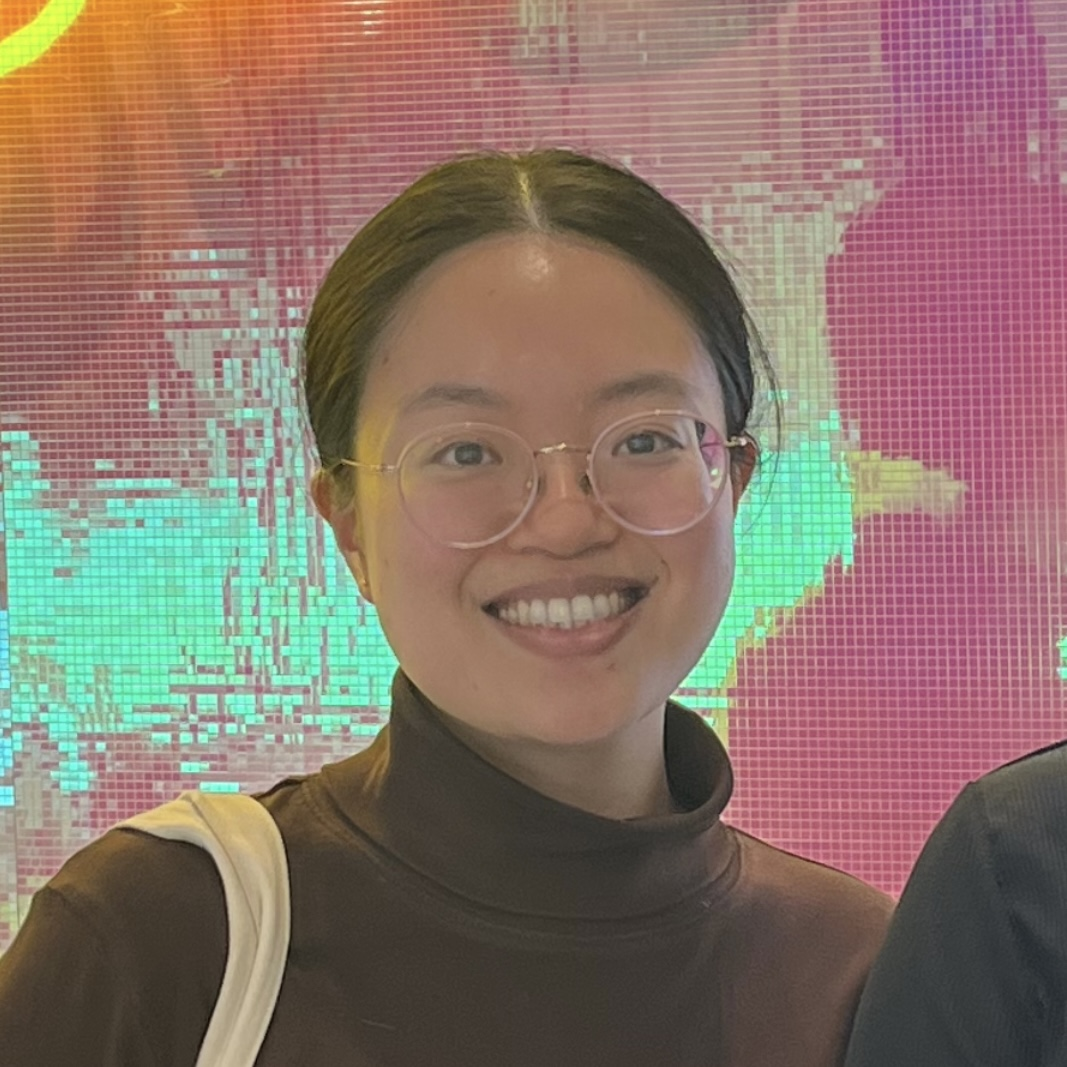
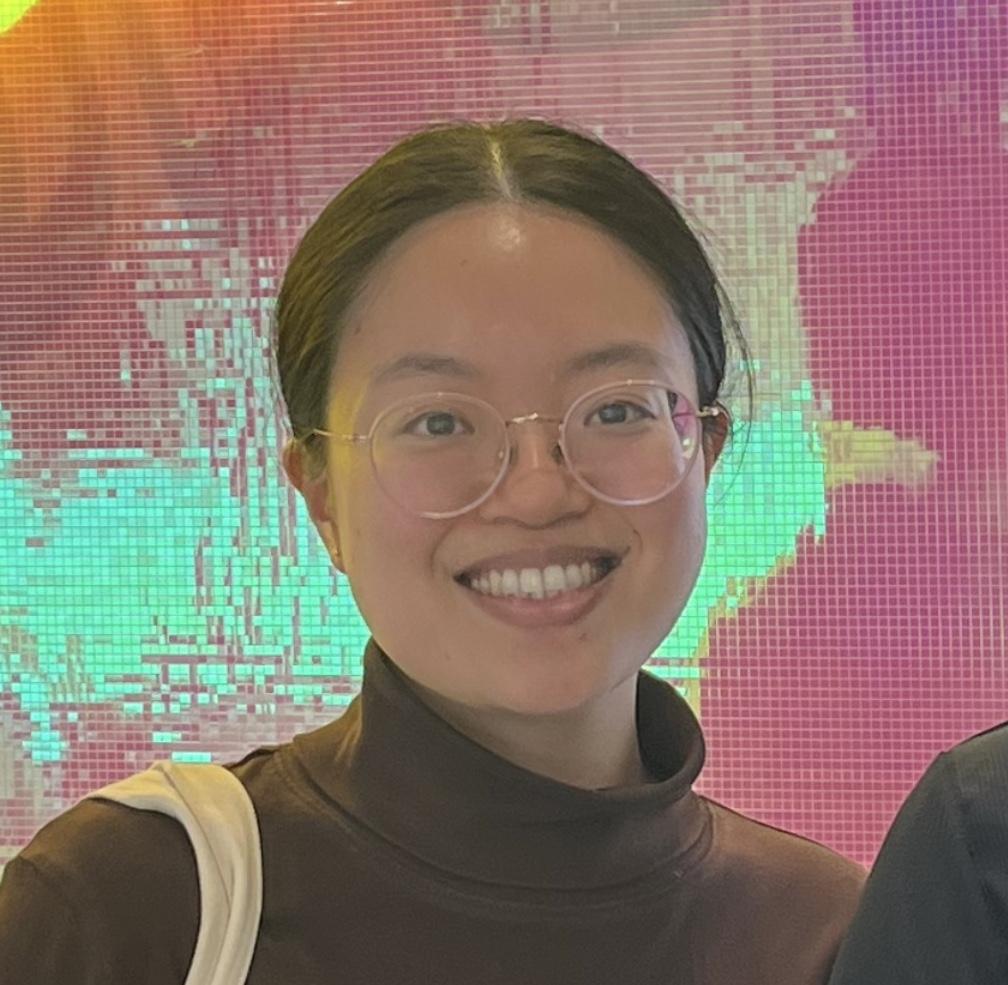
content edits

diff --git a/_sass/layout/_navigation.scss b/_sass/layout/_navigation.scss
@@ -71,8 +71,9 @@
 
   li {
     display: block;
-    float: left;
-    margin-left: -1px;
+    float: right;
+    margin-right: -1px;
+    /*margin-left: -1px;*/
 
     a {
       margin-bottom: 0.25em;

diff --git a/_pages/portfolio.html b/_pages/portfolio.html
@@ -1,6 +1,6 @@
 ---
 layout: archive
-title: "My Research"
+title: "Research Highlights"
 permalink: /portfolio/
 author_profile: true
 ---

diff --git a/_posts/2026-09-04-glossary.md b/_posts/2026-09-04-glossary.md
@@ -1,0 +1,41 @@
+---
+title: 'A running glossary of terms (and equations)'
+date: 2027-09-04
+permalink: /posts/2026/09/glossary/
+tags:
+  - resources
+  - notes
+---
+
+This is a running list of terms and equations that are useful to know for exoplanet science. Vaguely grouped by theme, in alphabetical order. Mostly a cheat-sheet for myself, but let me know if you find it helpful (or see anything that needs correction).
+
+Detection & Observation Methods
+======
+
+Transit
+------
+
+Direct Imaging
+------
+
+Radial Velocity
+------
+
+Microlensing
+------
+
+
+
+Facilities
+======
+
+JWST
+------
+
+Useful for detailed characterisation of individual objects or systems in the near-to-mid infrared. Capable of transmission and emission spectroscopy of transiting exoplanets, phase curves, direct imaging with a coronagraph, direct imaging and spectroscopy without a coronagraph (see ([this](https://iopscience.iop.org/article/10.3847/1538-4357/ad74f4))), and potentially even radial velocities?
+
+Roman (RST?)
+------
+
+Useful for large sample statistics of transiting 
+

diff --git a/_pages/cv.md b/_pages/cv.md
@@ -9,8 +9,11 @@ redirect_from:
 
 {% include base_path %}
 
-Education
-======
+<b>Education</b>
+
+<--======
+-->
+
 * Ph.D in Astronomy and Astrophysics, Johns Hopkins University, 2027 (expected)
 * M.S. in Astronomy and Astrophysics, Johns Hopkins University, 2024
 * B.A. in Physics, University of Pennsylvania, 2022
